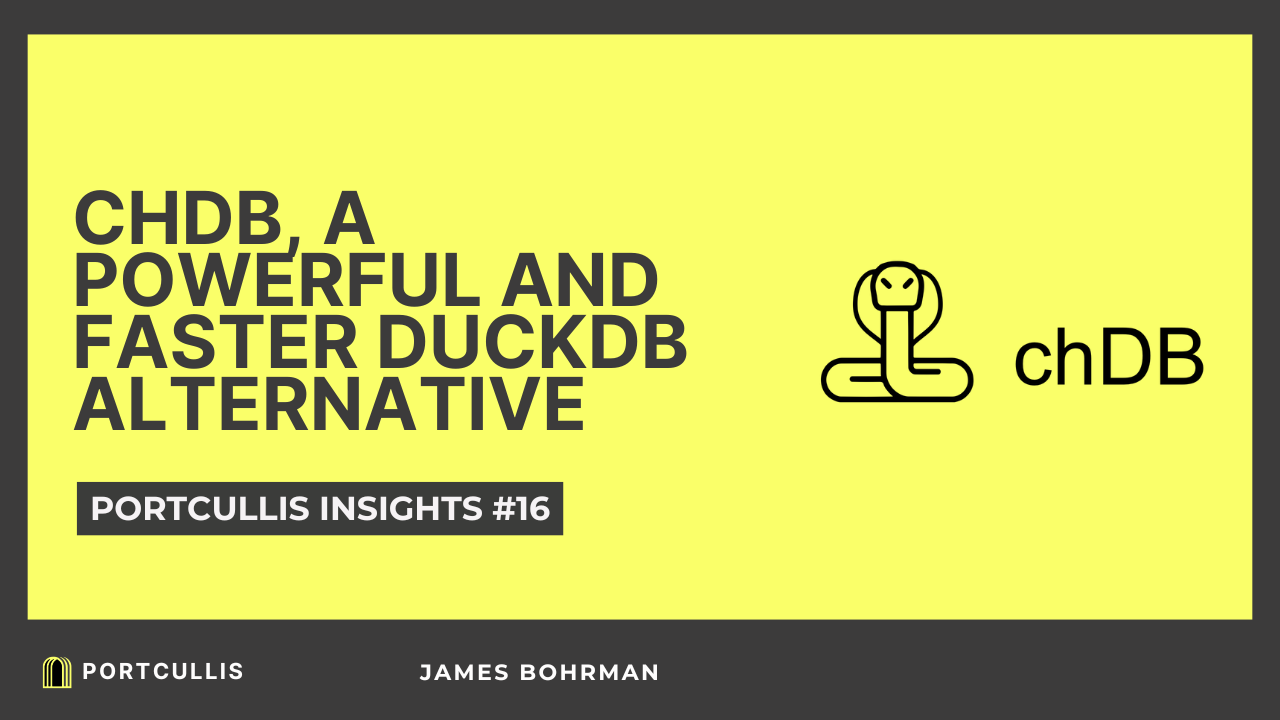
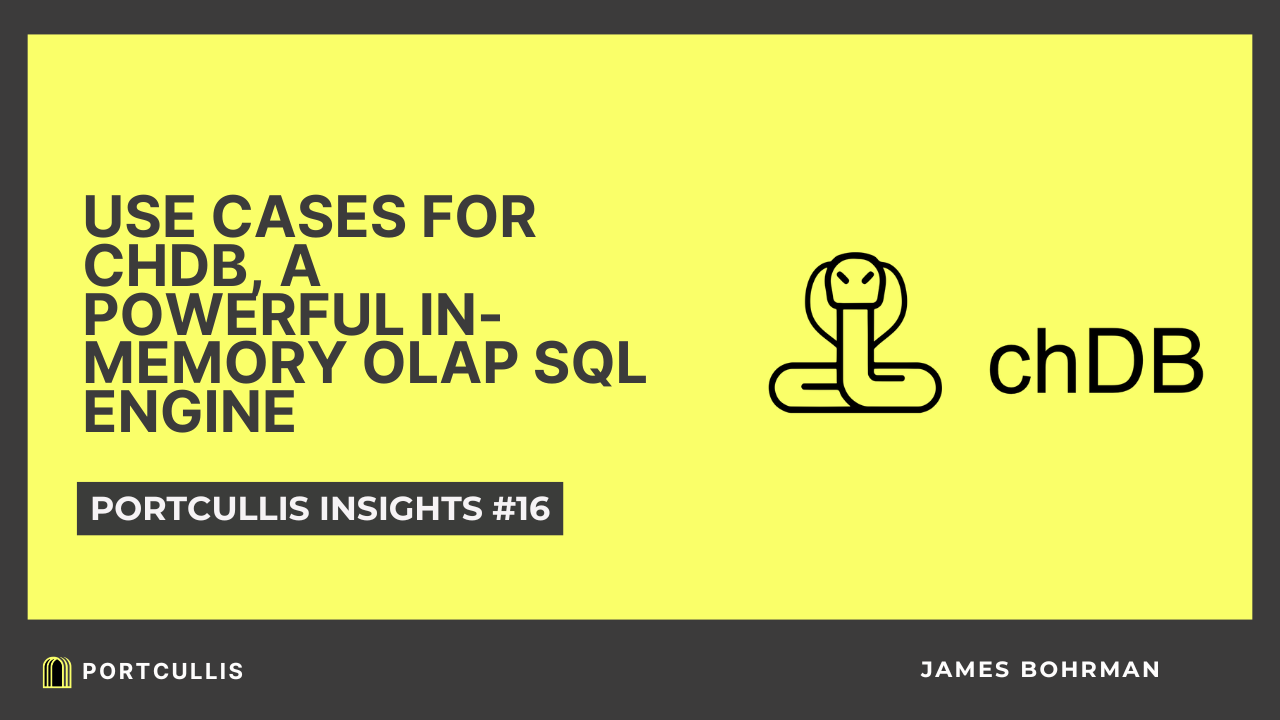
push

diff --git a/.astro/types.d.ts b/.astro/types.d.ts
@@ -136,6 +136,13 @@ declare module 'astro:content' {
 
 	type ContentEntryMap = {
 		"blog": {
+"chdb-a-powerful-in-memory-clickhouse.md": {
+	id: "chdb-a-powerful-in-memory-clickhouse.md";
+  slug: "chdb-a-powerful-in-memory-clickhouse";
+  body: string;
+  collection: "blog";
+  data: InferEntrySchema<"blog">
+} & { render(): Render[".md"] };
 "why-we-bet-on-clickhouse.md": {
 	id: "why-we-bet-on-clickhouse.md";
   slug: "why-we-bet-on-clickhouse";

diff --git a/src/content/blog/chdb-a-powerful-in-memory-clickhouse.md b/src/content/blog/chdb-a-powerful-in-memory-clickhouse.md
@@ -1,0 +1,84 @@
+---
+title: "Use Cases for chDB, a powerful in-memory OLAP SQL Engine"
+description: "Come learn about a exciting Clickhouse-powered alternative to DuckDB "
+pubDate: "Dec 16 2024"
+cover: "/blog/blog-cover-16.png"
+category: "insights"
+---
+
+Clickhouse is quickly becoming a crowd favorite real-time data warehouse platform for organizations looking to take advantage of blazing fast query speeds in OLAP scenarios that power mission-critical applications and embedded analytics.
+
+It’s columnar storage mechanism that maximizes system resourcefulness allows it to be at least 100x faster at processing analytical queries than row-oriented spproaches. Recently, the Clickhouse team acquired the [chDB](https://github.com/chdb-io/chdb) project for running in-process SQL queries using a variety of formats and language bindings. In this post, we’re going to dive into why chDB is such a promising project for the clickhouse ecosystem and what it’s core use cases may be.
+
+## A DuckDB alternative
+
+DuckDB has gained significant popularity as an in-process analytical database that excels at processing local datasets and running complex SQL queries without the need for a separate server process. Along that thread of thinking and inspiration, chDB positions itself as a compelling alternative that leverages Clickhouse's proven columnar engine technology while offering a similar ease of use and deployment simplicity. 
+
+What sets chDB apart is its ability to handle massive datasets with the same performance characteristics as Clickhouse, making it particularly attractive for scenarios where data volume exceeds DuckDB's sweet spot. In fact, chDB regularly outperforms DuckDB,
+Pandas, and Polars in benchmark queries. 
+
+![image.png](https://prod-files-secure.s3.us-west-2.amazonaws.com/9484ea57-fa6e-4c7d-9dbf-363c61a25285/e413956a-740a-48a4-ad5d-b0fb08303a40/image.png)
+
+## Why in-process SQL Engines are popping up
+
+The rise of in-process SQL engines like chDB and DuckDB reflects a growing need for lightweight, embedded analytics capabilities that can operate directly within applications. As modern software architectures become more distributed and data-intensive, developers increasingly need powerful query engines that don't require separate database servers or complex infrastructure. This shift towards embedded analytics is particularly evident in edge computing scenarios, serverless architectures, and applications requiring real-time data processing capabilities.
+
+This trend is driven by several factors, including the need for reduced operational complexity, lower infrastructure costs, and the ability to process data closer to where it's generated. In-process SQL engines provide a compelling solution by eliminating the need for separate database management while maintaining high performance. The combination of these factors has created fertile ground for innovations like chDB to flourish.
+
+## Use cases for chDB
+
+chDB's versatility makes it well-suited for several key use cases in modern data architectures. The project's ability to handle large-scale data processing within the application process, combined with Clickhouse's proven performance characteristics, opens up new possibilities for developers and data engineers. Let's explore some of the most compelling use cases where chDB shines.
+
+### Local data pipelines
+
+One of the primary use cases for chDB is building efficient local data pipelines. Its ability to process large datasets in-memory makes it ideal for ETL operations, data transformations, and preprocessing tasks that would traditionally require a full database setup. Developers can leverage chDB to perform complex SQL operations on local files, making it perfect for data scientists working with CSV files, JSON data, or Parquet formats. The seamless integration with popular programming languages like Python and Rust enables smooth workflow automation and rapid development of data processing scripts.
+
+![image.png](https://prod-files-secure.s3.us-west-2.amazonaws.com/9484ea57-fa6e-4c7d-9dbf-363c61a25285/bb425de2-804c-4881-9aed-9bf02634c4bd/image.png)
+
+### Serverless SQL Analytics
+
+chDB has a variety of features that allow very efficient and direct querying of objects directly in-memory using features such as user-defined functions and almost 1:1 feature parity with Clickhouse. 
+
+This makes it particularly well-suited for serverless computing environments where spinning up a full database instance would be impractical or cost-prohibitive. Developers can embed chDB directly into their Lambda functions or serverless applications to perform complex analytics on data stored in cloud storage services like S3. 
+
+The ability to execute queries without maintaining persistent connections or managing database infrastructure significantly reduces operational overhead while maintaining high performance.
+
+![image.png](https://prod-files-secure.s3.us-west-2.amazonaws.com/9484ea57-fa6e-4c7d-9dbf-363c61a25285/51b7180d-ebed-4046-86b1-6f6da04d76db/image.png)
+
+## Using chDB: A in-process Data Pipeline Demo
+
+Let's explore a practical example of using chDB to build an efficient data pipeline that processes and analyzes a large dataset locally. In this demonstration, we'll use Python to load a CSV file containing customer transaction data, perform some aggregations, and export the results - all using chDB's powerful in-memory engine. This example will showcase chDB's performance advantages and ease of use compared to traditional approaches.
+
+```python
+import chdb
+import pandas as pd
+
+# Initialize chDB with our dataset
+db = chdb.session()
+data = pd.read_csv('transactions.csv')
+
+# Execute complex aggregation query
+result = db.query("""
+    SELECT 
+        date_trunc('month', transaction_date) as month,
+        sum(amount) as total_sales,
+        count(distinct customer_id) as unique_customers
+    FROM data 
+    GROUP BY month 
+    ORDER BY month
+""")
+```
+
+## Features I’d love to see in chDB
+
+While chDB is pretty amazing where it’s at, there’s a few things I’d love to see support for over time. 
+
+First, I'd love to see better support for materialized views and incremental aggregations. This would allow for more efficient caching of complex query results and better performance for frequently accessed data patterns. Additionally, expanded support for geospatial operations would open up exciting possibilities for location-based analytics directly within the application process.
+
+Another feature on my wishlist would be enhanced integration with streaming data sources, allowing chDB to process real-time data streams while maintaining its impressive performance characteristics. This would make it even more valuable for real-time analytics applications and event processing scenarios.
+
+## Conclusion
+
+chDB represents a significant step forward in the evolution of embedded analytics and data processing capabilities. By combining Clickhouse's proven performance with the simplicity of an in-process engine, it offers developers a powerful tool for building modern data-intensive applications. As the project continues to mature and gain adoption, we can expect to see even more innovative use cases and implementations that push the boundaries of what's possible with local data processing.
+
+If you’d like to explore how we’re using chDB at Portcullis and how it can help you in your organization, schedule a free consultation.
